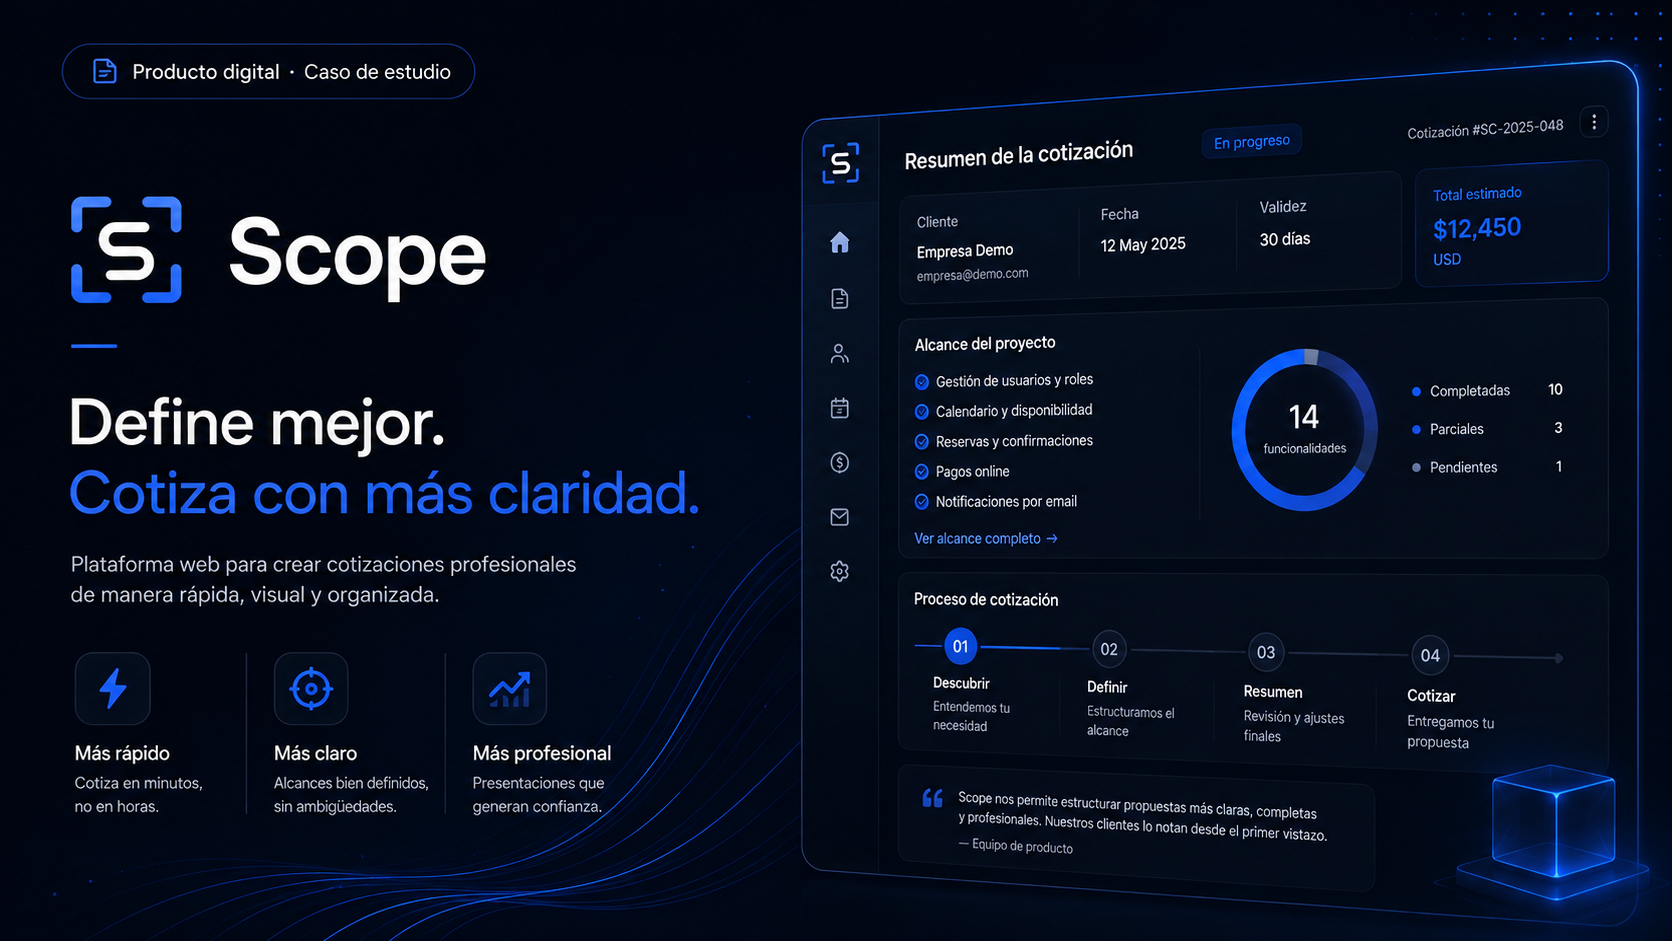
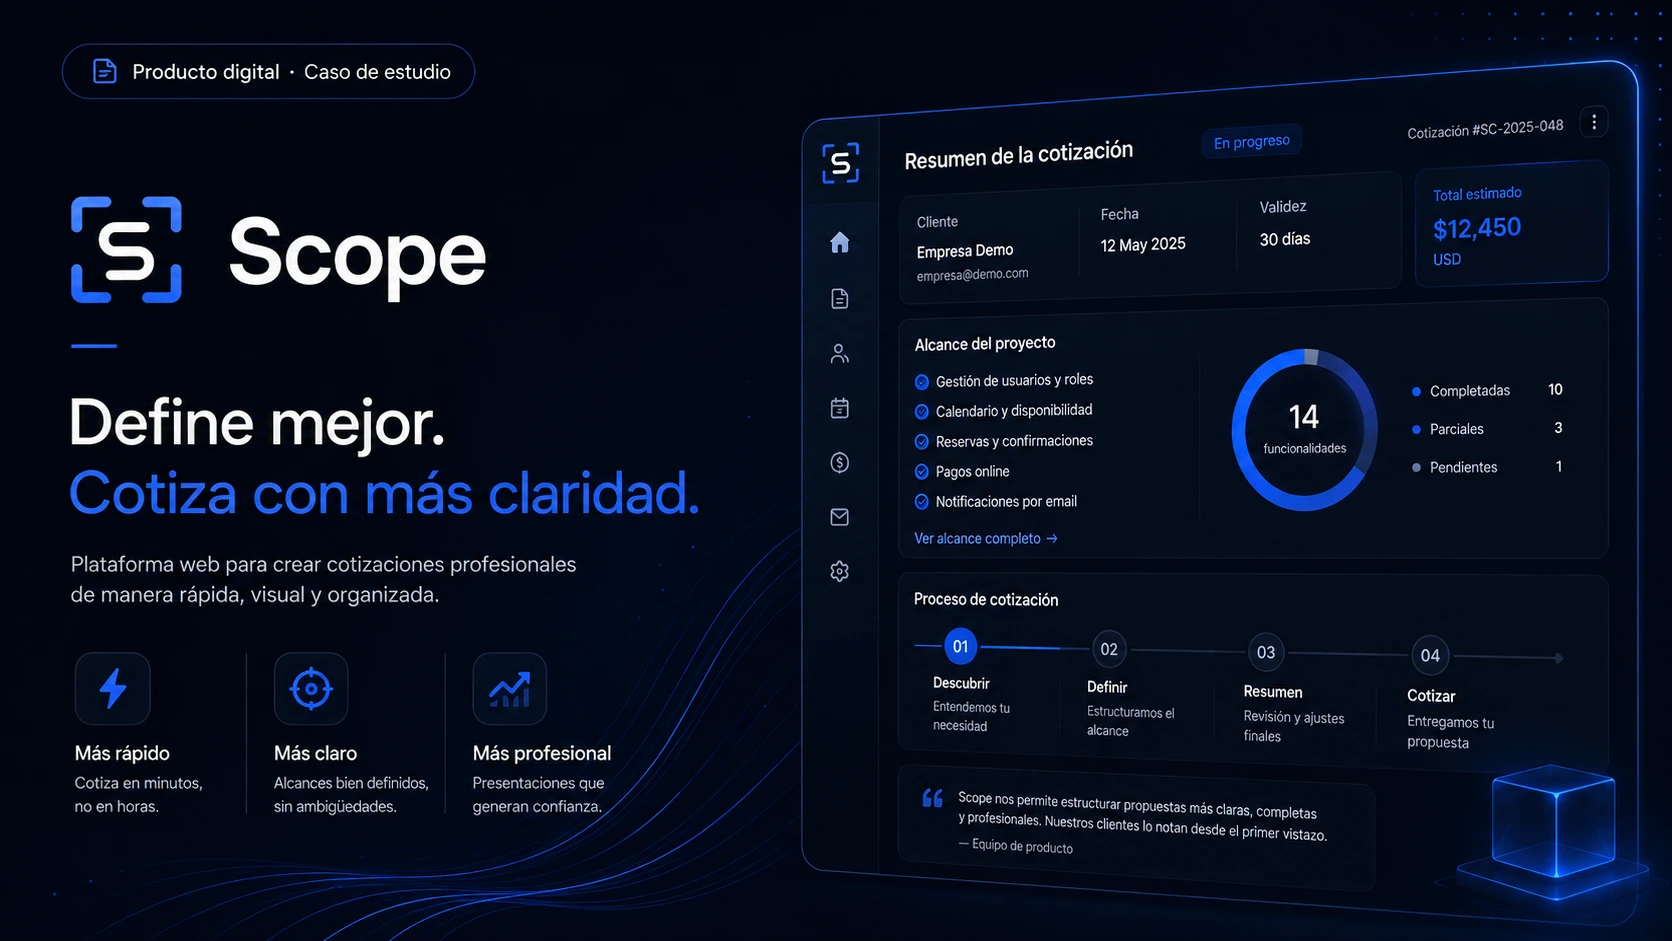
feat: implement project case study component and configure PWA assets and routing

diff --git a/components/projects/ProjectImage.tsx b/components/projects/ProjectImage.tsx
@@ -10,6 +10,8 @@ type ProjectImageProps = {
   alt: string;
   aspectRatio?: string;
   objectPosition?: string;
+  objectFit?: "cover" | "contain" | "fill" | "none" | "scale-down";
+  backgroundColor?: string;
   priority?: boolean;
   quality?: number;
   className?: string;
@@ -24,15 +26,31 @@ export function ProjectImage({
   alt,
   aspectRatio,
   objectPosition = "center",
+  objectFit = "cover",
+  backgroundColor,
   priority = false,
   quality = 90,
   className,
   imageClassName,
 }: ProjectImageProps) {
+  const fitClass =
+    objectFit === "contain"
+      ? "object-contain"
+      : objectFit === "fill"
+        ? "object-fill"
+        : objectFit === "none"
+          ? "object-none"
+          : objectFit === "scale-down"
+            ? "object-scale-down"
+            : "object-cover";
+
   return (
     <div
       className={cn("relative overflow-hidden bg-background", className)}
-      style={{ aspectRatio: aspectRatio?.replace("/", " / ") ?? `${width} / ${height}` }}
+      style={{
+        aspectRatio: aspectRatio?.replace("/", " / ") ?? `${width} / ${height}`,
+        ...(backgroundColor ? { backgroundColor } : {}),
+      }}
     >
       <Image
         src={src}
@@ -42,7 +60,7 @@ export function ProjectImage({
         quality={quality}
         priority={priority}
         fetchPriority={priority ? "high" : undefined}
-        className={cn("object-cover", imageClassName)}
+        className={cn(fitClass, imageClassName)}
         style={{ objectPosition }}
       />
     </div>

diff --git a/components/projects/ProjectCaseStudy.tsx b/components/projects/ProjectCaseStudy.tsx
@@ -112,6 +112,8 @@ export function ProjectCaseStudy({
                 alt={project.coverImage.alt[locale]}
                 aspectRatio={project.coverImage.aspectRatio}
                 objectPosition={project.coverImage.objectPosition}
+                objectFit={project.coverImage.objectFit}
+                backgroundColor={project.coverImage.backgroundColor}
                 priority
                 sizes="(min-width: 1024px) 58vw, 100vw"
                 className="rounded-card-large border border-border bg-card"
@@ -206,6 +208,8 @@ export function ProjectCaseStudy({
                     alt={image.alt[locale]}
                     aspectRatio={image.aspectRatio}
                     objectPosition={image.objectPosition}
+                    objectFit={image.objectFit}
+                    backgroundColor={image.backgroundColor}
                     sizes="(min-width: 1024px) 50vw, 100vw"
                     className="rounded-card-large border border-border bg-card"
                   />

diff --git a/content/projects/scope.ts b/content/projects/scope.ts
@@ -20,9 +20,11 @@ export const scope = defineProject({
   featuredOrder: 2,
   coverImage: {
     src: "/projects/scope/cover.webp",
-    width: 1407,
-    height: 791,
+    width: 1672,
+    height: 941,
     aspectRatio: "16/9",
+    objectFit: "contain",
+    backgroundColor: "#0b0d0e",
     alt: {
       es: "Vista amplia de Scope con el cuestionario guiado y el resumen dinámico del proyecto.",
       en: "Wide Scope view featuring the guided questionnaire and dynamic project summary.",
@@ -33,6 +35,8 @@ export const scope = defineProject({
     width: 1407,
     height: 1055,
     aspectRatio: "4/3",
+    objectFit: "contain",
+    backgroundColor: "#0b0d0e",
     alt: {
       es: "Interfaz de Scope mostrando la definición guiada y el resumen del alcance de un proyecto.",
       en: "Scope interface showing guided project definition and a real-time scope summary.",

diff --git a/app/manifest.ts b/app/manifest.ts
@@ -12,6 +12,25 @@ export default function manifest(): MetadataRoute.Manifest {
     background_color: siteConfig.themeColor,
     theme_color: siteConfig.themeColor,
     lang: "es",
-    icons: [{ src: "/icon.svg", sizes: "any", type: "image/svg+xml" }],
+    icons: [
+      {
+        src: "/icons/pwa-192.png",
+        sizes: "192x192",
+        type: "image/png",
+        purpose: "any",
+      },
+      {
+        src: "/icons/pwa-512.png",
+        sizes: "512x512",
+        type: "image/png",
+        purpose: "any",
+      },
+      {
+        src: "/icons/pwa-maskable-512.png",
+        sizes: "512x512",
+        type: "image/png",
+        purpose: "maskable",
+      },
+    ],
   };
 }

diff --git a/content/projects/altura-arquitectura.ts b/content/projects/altura-arquitectura.ts
@@ -2,7 +2,7 @@ import { defineProject } from "./schema";
 
 export const alturaArquitectura = defineProject({
   slug: "altura-arquitectura",
-  title: { es: "Altura Arquitectura", en: "Altura Arquitectura" },
+  title: { es: "Altura ", en: "Altura " },
   shortDescription: {
     es: "Sitio web premium y editorial para un estudio ficticio de arquitectura y diseño de interiores en Panamá.",
     en: "Premium editorial website for a fictional architecture and interior design studio in Panama.",

diff --git a/app/[locale]/layout.tsx b/app/[locale]/layout.tsx
@@ -57,6 +57,15 @@ export async function generateMetadata({
   return {
     metadataBase: siteConfig.url,
     manifest: "/manifest.webmanifest",
+    icons: {
+      icon: [
+        { url: "/favicon.ico" },
+        { url: "/icons/pwa-192.png", sizes: "192x192", type: "image/png" },
+      ],
+      apple: [
+        { url: "/apple-touch-icon.png", sizes: "180x180", type: "image/png" },
+      ],
+    },
     ...createLocalizedMetadata({
       locale,
       href: appRoutes.home,

diff --git a/components/projects/ProjectCard.tsx b/components/projects/ProjectCard.tsx
@@ -38,6 +38,8 @@ export function ProjectCard({
           alt={project.thumbnailImage.alt[locale]}
           aspectRatio={project.thumbnailImage.aspectRatio}
           objectPosition={project.thumbnailImage.objectPosition}
+          objectFit={project.thumbnailImage.objectFit}
+          backgroundColor={project.thumbnailImage.backgroundColor}
           sizes={imageSizes}
           quality={90}
           className="border-0"

diff --git a/content/projects/schema.ts b/content/projects/schema.ts
@@ -51,6 +51,8 @@ export const projectImageSchema = z
     alt: localizedTextSchema,
     aspectRatio: z.enum(["4/3", "16/9"]),
     objectPosition: requiredText.optional(),
+    objectFit: z.enum(["cover", "contain", "fill", "none", "scale-down"]).optional(),
+    backgroundColor: requiredText.optional(),
   })
   .strict();
 
